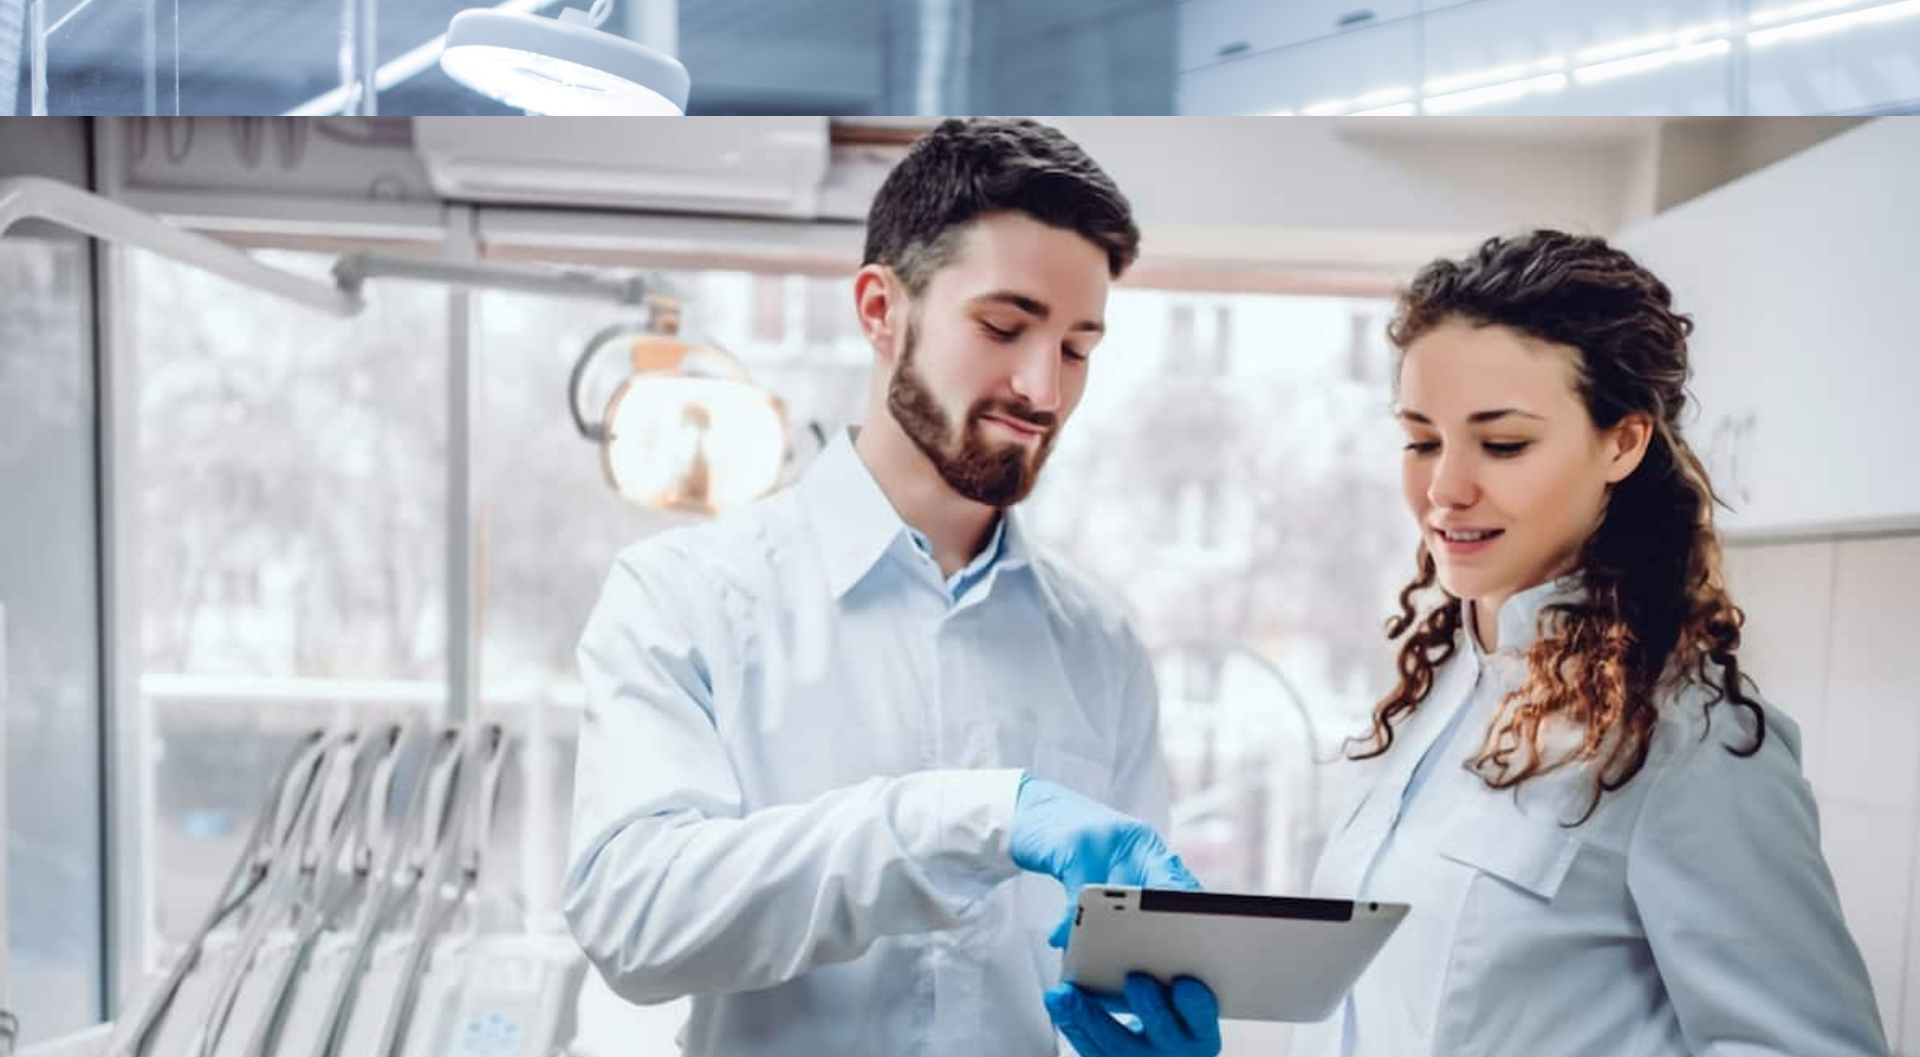
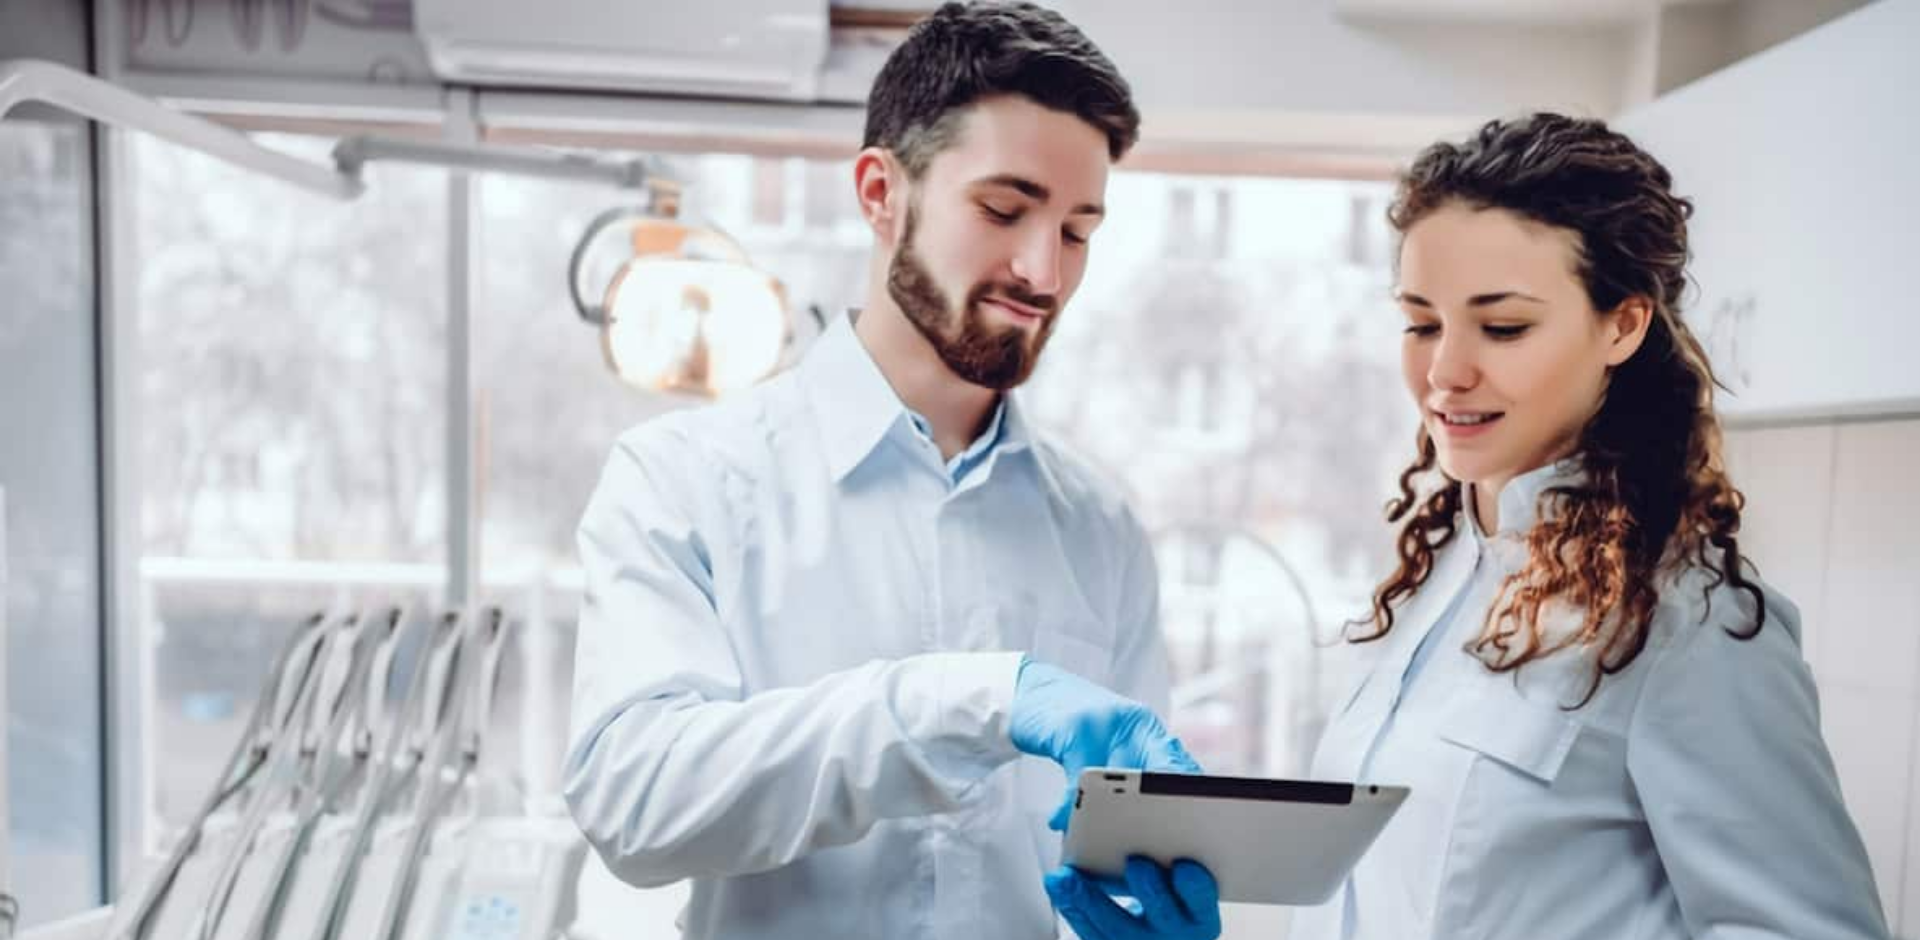
feat: update estilos

diff --git a/src/template/home/home-about.js b/src/template/home/home-about.js
@@ -39,66 +39,68 @@ const HomeAbout = () => {
               >
                 {(styles) => (
                   <animated.div style={styles}>
-                    <Card ref={ref}>
-                      <Spring
-                        delay={500}
-                        reset={inView}
-                        reverse={!inView}
-                        config={config.gentle}
-                        {...FadeUp}
-                      >
-                        {(styles) => (
-                          <animated.div style={styles}>
-                            <Logo>
-                              <FeaturedMedia
-                                media={images.icons.tooth}
-                                size="100%"
-                              />
-                            </Logo>
-                          </animated.div>
-                        )}
-                      </Spring>
+                    <CardContainer>
+                      <Card ref={ref}>
+                        <Spring
+                          delay={500}
+                          reset={inView}
+                          reverse={!inView}
+                          config={config.gentle}
+                          {...FadeUp}
+                        >
+                          {(styles) => (
+                            <animated.div style={styles}>
+                              <Logo>
+                                <FeaturedMedia
+                                  media={images.icons.tooth}
+                                  size="100%"
+                                />
+                              </Logo>
+                            </animated.div>
+                          )}
+                        </Spring>
 
-                      <Spring
-                        delay={600}
-                        reset={inView}
-                        reverse={!inView}
-                        config={config.gentle}
-                        {...FadeUp}
-                      >
-                        {(styles) => (
-                          <animated.div style={styles}>
-                            <Title>{data.title}</Title>
-                          </animated.div>
-                        )}
-                      </Spring>
-                      <Spring
-                        delay={700}
-                        reset={inView}
-                        reverse={!inView}
-                        config={config.gentle}
-                        {...FadeUp}
-                      >
-                        {(styles) => (
-                          <animated.div style={styles}>
-                            <Copy>{data.copy}</Copy>
-                          </animated.div>
-                        )}
-                      </Spring>
-                      <Spring
-                        delay={900}
-                        reset={inView}
-                        reverse={!inView}
-                        config={config.gentle}
-                        {...FadeUp}
-                      >
-                        {(styles) => (
-                          <animated.div style={styles}>
-                            <Deco />
-                          </animated.div>
-                        )}
-                      </Spring>
-                    </Card>
+                        <Spring
+                          delay={600}
+                          reset={inView}
+                          reverse={!inView}
+                          config={config.gentle}
+                          {...FadeUp}
+                        >
+                          {(styles) => (
+                            <animated.div style={styles}>
+                              <Title>{data.title}</Title>
+                            </animated.div>
+                          )}
+                        </Spring>
+                        <Spring
+                          delay={700}
+                          reset={inView}
+                          reverse={!inView}
+                          config={config.gentle}
+                          {...FadeUp}
+                        >
+                          {(styles) => (
+                            <animated.div style={styles}>
+                              <Copy>{data.copy}</Copy>
+                            </animated.div>
+                          )}
+                        </Spring>
+                        <Spring
+                          delay={900}
+                          reset={inView}
+                          reverse={!inView}
+                          config={config.gentle}
+                          {...FadeUp}
+                        >
+                          {(styles) => (
+                            <animated.div style={styles}>
+                              <Deco />
+                            </animated.div>
+                          )}
+                        </Spring>
+                      </Card>
+                    </CardContainer>
                   </animated.div>
                 )}
               </Spring>
@@ -121,7 +123,14 @@ const Section = styled.section`
 const Container = styled.div`
   position: relative;
   width: 100%;
-  clip-path: ellipse(95% 100% at 50% 100%) !important;
+  ${mq.xs} {
+    clip-path: ellipse(145% 100% at 50% 100%) !important;
+  }
+
+  ${mq.md}{
+    clip-path: ellipse(100% 100% at 50% 100%) !important;
+
+  }
 
   ${mq.lg} {
     clip-path: ellipse(85% 100% at 50% 100%) !important;
@@ -130,22 +139,29 @@ const Container = styled.div`
 
 const BImage = styled(BackgroundImage)`
   overflow: hidden;
+  background-size: cover;
+  background-repeat: no-repeat, repeat;
+  text-align: center;
+`;
+
+const CardContainer = styled.div`
+  ${container}
 `;
 
 const Card = styled.div`
   background-color: white;
+  position: relative;
 
   padding: 5rem 5rem 3rem;
-  margin: 20% 2rem;
+  margin: 20% auto;
   position: relative;
   border-radius: 2rem;
   max-width: 36rem;
   ${mq.md} {
-    top: 0;
-    left: 13%;
+    margin-left: 0;
   }
   ${mq.lg} {
-    margin: 9% 0;
+    margin: 12% 0;
   }
 `;
 
@@ -181,7 +197,7 @@ const Copy = styled.p`
   animation: ${(props) => props.animate} 1.8s ease-in both;
 `;
 const Deco = styled.div`
-  position: relative;
+  position: absolute;
   animation: ${(props) => props.animate} 2s ease-in both;
 
   &::before {

diff --git a/src/template/home/home-service.js b/src/template/home/home-service.js
@@ -46,7 +46,7 @@ const HomeService = () => {
   return (
     <Section fluid>
       <ImageDeco>
-        <FeaturedMedia media={images.home.deco} size="255%" />
+        <FeaturedMedia media={images.home.deco} size="255%" maxWidth="70rem" />
       </ImageDeco>
       <Logo>
         <FeaturedMedia media={images.icons.smile} sizeMd="100%" />
